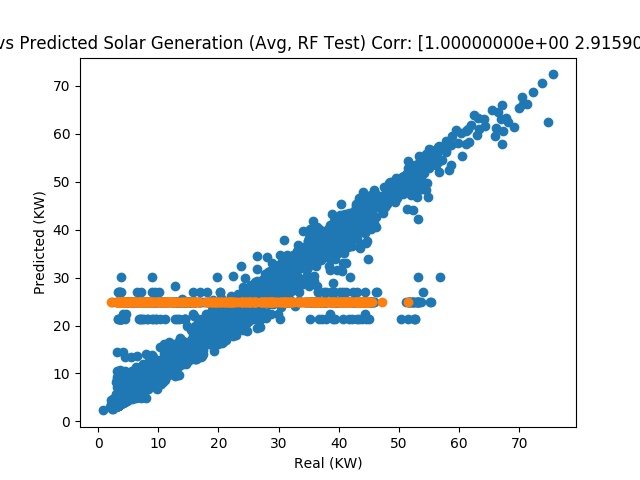
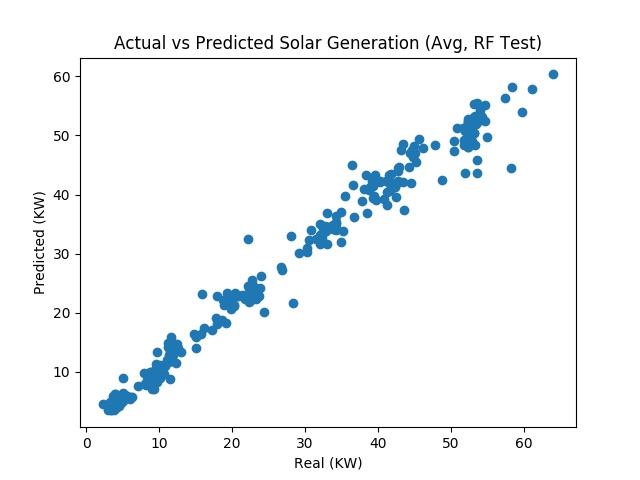
rf stuff

diff --git a/code/random_forest.py b/code/random_forest.py
@@ -14,11 +14,11 @@ x = np.nan_to_num(x, copy=True)
 y = np.nan_to_num(y, copy=True)
 y = y/1000
 
-x_train = x[0:3999]
-x_test = x[4000:4400]
+x_train = x[0:2999]
+x_test = x[3000:3300]
 
-y_train = y[0:3999]
-y_test = y[4000:4400]
+y_train = y[0:2999]
+y_test = y[3000:3300]
 
 print(y_test.shape)
 
@@ -28,10 +28,9 @@ with np.errstate(invalid='ignore'):
     regressor = RandomForestRegressor(n_estimators=100, random_state=0)
     regressor.fit(x_train, y_train)
     predictions = regressor.predict(x_train)
-    correlation = np.corrcoef(y_train, predictions)
+    #correlation = np.corrcoef(y_train, predictions)
 
-
-    title_name = 'Actual vs Predicted Solar Generation (Avg, RF Training) Corr: {}'.format(correlation[0])
+    title_name = 'Actual vs Predicted Solar Generation (Avg, RF Training)'
     x_axis_label = "Real (KW)"
     y_axis_label = "Predicted (KW)"
 
@@ -40,12 +39,13 @@ with np.errstate(invalid='ignore'):
     plt.xlabel(x_axis_label)
     plt.ylabel(y_axis_label)
     plt.savefig('../figures/rf_train1.jpg')
+    plt.clf()
 
     # TEST DATA
     predictions2 = regressor.predict(x_test)
-    correlation2 = np.corrcoef(y_test, predictions2)
+   # correlation2 = np.corrcoef(y_test, predictions2)
 
-    title_name2 = "Actual vs Predicted Solar Generation (Avg, RF Test) Corr: {}".format(correlation2[0])
+    title_name2 = "Actual vs Predicted Solar Generation (Avg, RF Test)"
     x_axis_label2 = "Real (KW)"
     y_axis_label2 = "Predicted (KW)"
 
